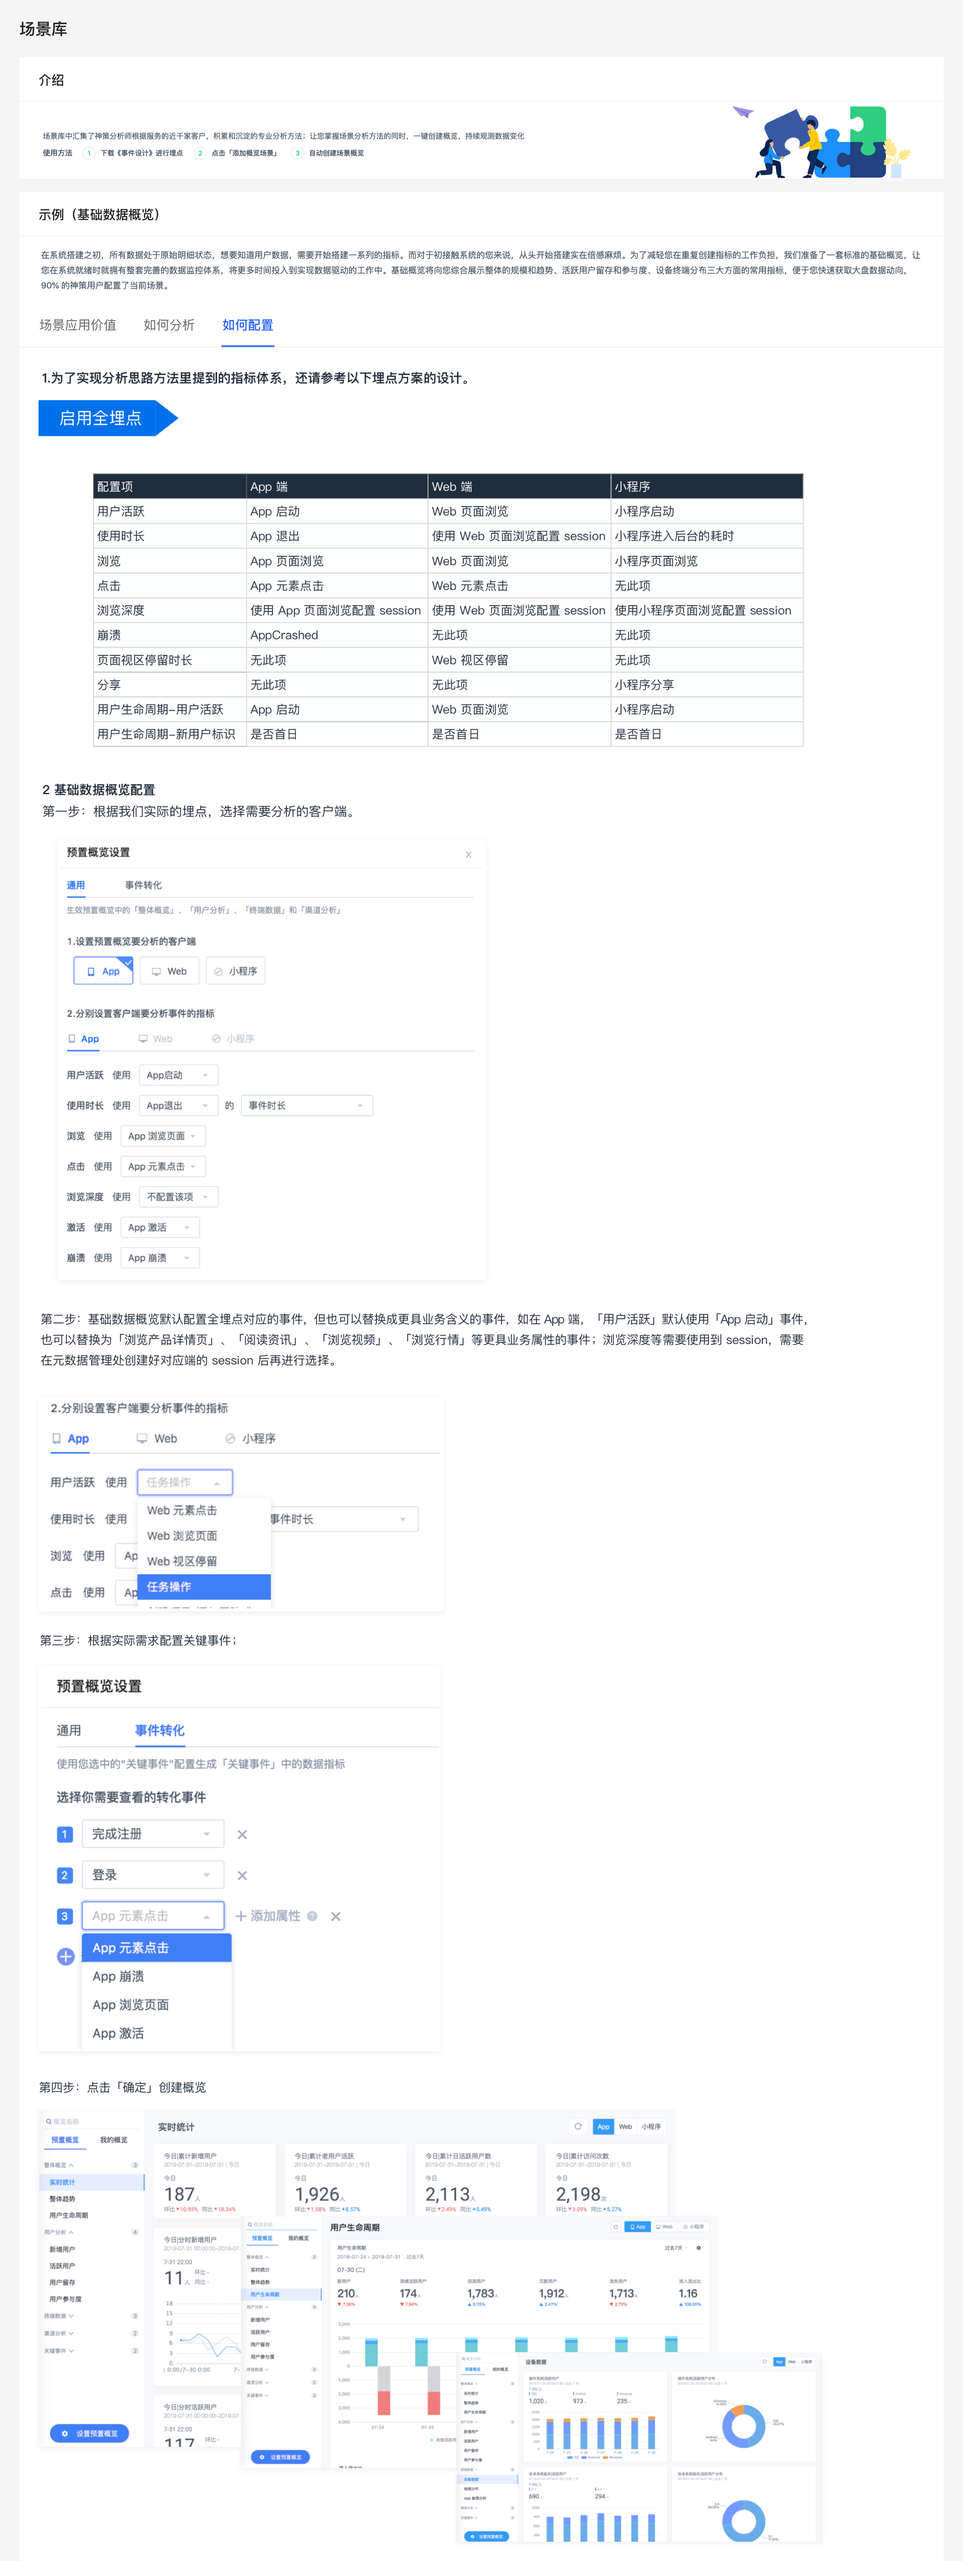
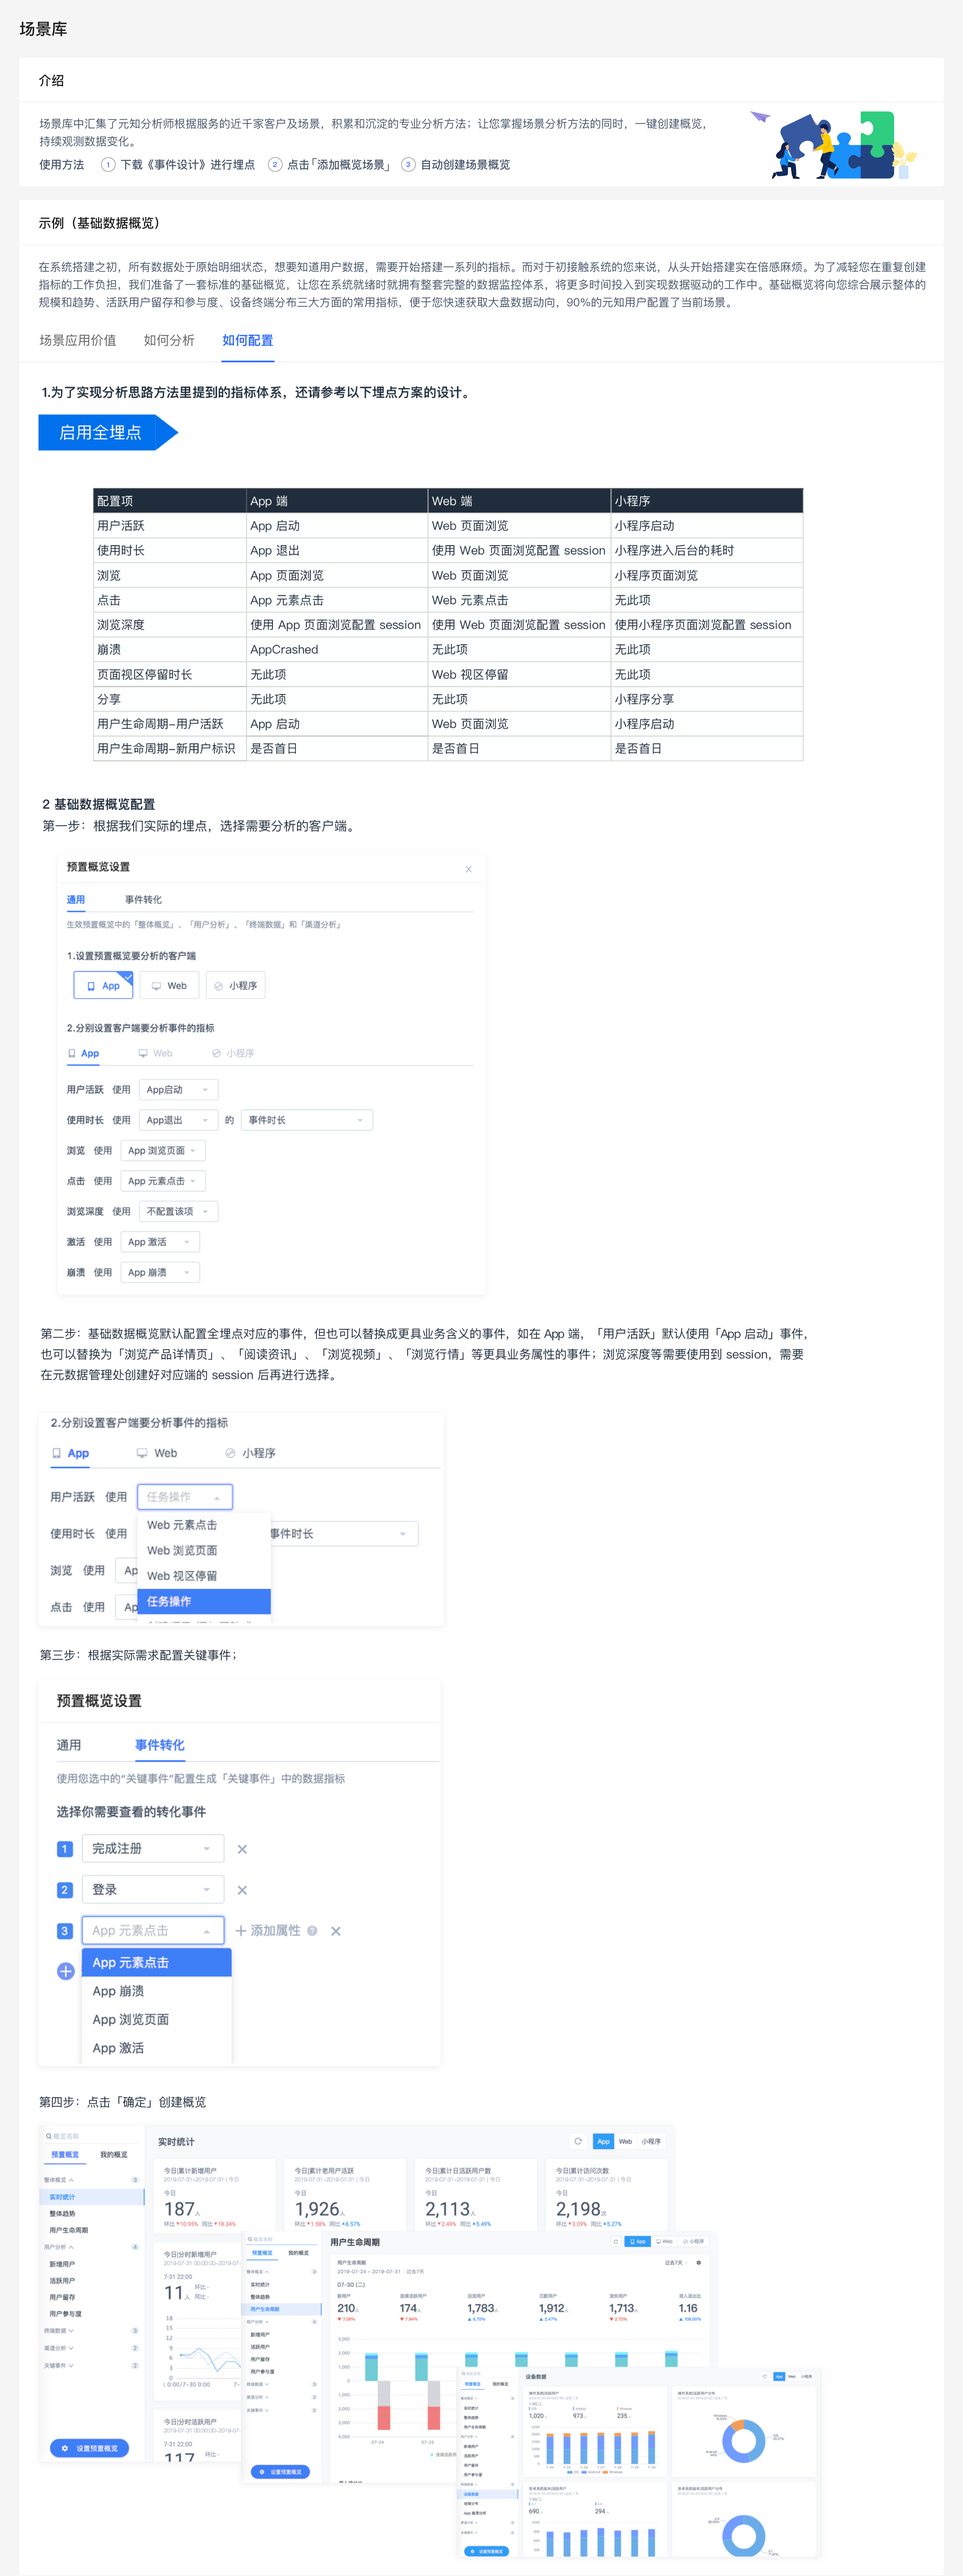
场景库修改

diff --git a/src/views/tool/components/cjk.vue b/src/views/tool/components/cjk.vue
@@ -1,17 +1,8 @@
 <template>
     <div class="cjk">
-        <!--如何分析2-->
-        <template v-if="index == 2">
-            <div class="change4" @click="change(1)"></div>
-            <div class="change5" @click="change(2)"></div>
-            <div class="change6" @click="change(3)"></div>
-        </template>
-        <!--场景应用价值1、如何配置3-->
-        <template v-else>
-            <div class="change1" @click="change(1)"></div>
-            <div class="change2" @click="change(2)"></div>
-            <div class="change3" @click="change(3)"></div>
-        </template>
+        <div class="change1" @click="change(1)"></div>
+        <div class="change2" @click="change(2)"></div>
+        <div class="change3" @click="change(3)"></div>
         <img v-if="index == 1" src="../../../static/img/tool/cjk.png" alt="">
         <img v-else-if="index == 2" src="../../../static/img/tool/cjk1.png" alt="">
         <img v-else src="../../../static/img/tool/cjk2.png" alt="">
@@ -48,7 +39,7 @@
         .change1 {
             position: absolute;
             left: 40px;
-            top: 390px;
+            top: 410px;
             width: 110px;
             height: 38px;
             cursor: pointer;
@@ -57,7 +48,7 @@
         .change2 {
             position: absolute;
             left: 170px;
-            top: 390px;
+            top: 410px;
             width: 80px;
             height: 38px;
             cursor: pointer;
@@ -66,34 +57,7 @@
         .change3 {
             position: absolute;
             left: 270px;
-            top: 390px;
-            width: 80px;
-            height: 38px;
-            cursor: pointer;
-        }
-
-        .change4 {
-            position: absolute;
-            left: 40px;
-            top: 515px;
-            width: 110px;
-            height: 38px;
-            cursor: pointer;
-        }
-
-        .change5 {
-            position: absolute;
-            left: 170px;
-            top: 515px;
-            width: 80px;
-            height: 38px;
-            cursor: pointer;
-        }
-
-        .change6 {
-            position: absolute;
-            left: 270px;
-            top: 515px;
+            top: 410px;
             width: 80px;
             height: 38px;
             cursor: pointer;
